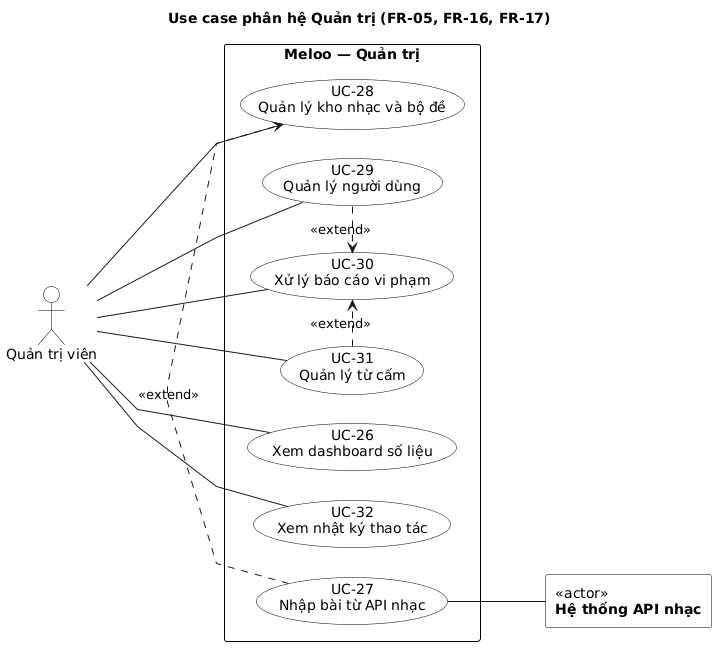
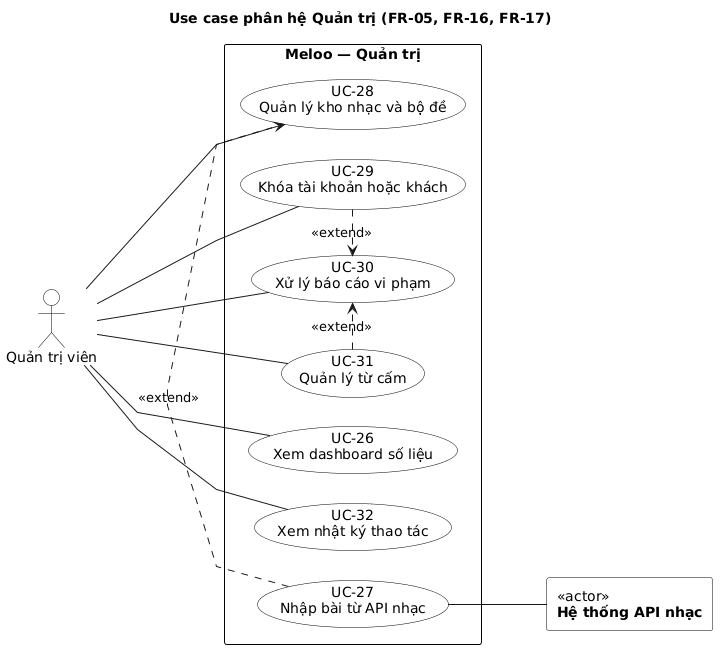
docs(srs): áp dụng quyết định PO 22/10 cho 8 điểm còn mở của use case

diff --git a/docs/srs/usecases/00-tong-quan.md b/docs/srs/usecases/00-tong-quan.md
@@ -3,14 +3,14 @@
 > Ticket: MEL-29 (DOC-02) · Phụ thuộc: MEL-28 (DOC-01, SRS v1 đã chốt ngày 22/10/2026)
 > Đầu vào: `docs/srs/01-srs.md` (FR-01 → FR-19), `docs/srs/02-business-rules.md` (BR-01 → BR-29), `docs/srs/03-glossary.md`.
 > Đầu ra: sơ đồ ở `docs/uml/usecase/` (PlantUML + PNG) và đặc tả chi tiết ở các file cùng thư mục này. QA-04 soạn kịch bản UAT từ các use case này.
-> Trạng thái: **bản nháp chờ Thái duyệt.** Nội dung nghiệp vụ là của Thái; chỗ SRS và BR chưa nói rõ được đánh dấu `[HỎI THÁI]` và gom ở mục 5.
+> Trạng thái: **bản nháp chờ Thái duyệt.** Nội dung nghiệp vụ là của Thái. Ngày 22/10/2026, Thái đã chốt 8 điểm còn mở ở mục 5; đặc tả đã cập nhật theo đó. Các file SRS/BR/thuật ngữ nằm ngoài phạm vi ticket nên chưa sửa; câu cần bổ sung vào BR ghi ở mục "Tài liệu cần cập nhật" của PR.
 
 ## 1. Tác nhân
 
 | Tác nhân | Loại | Vai trò trong mô hình | Nguồn |
 |---|---|---|---|
 | Khách | Chính | Người chơi chưa đăng nhập, dùng biệt danh. Là tác nhân gốc: mọi use case chơi đều mở cho Khách. | SRS 2.1, BR-20 |
-| Người chơi (đã đăng nhập) | Chính | Thừa hưởng mọi use case của Khách; thêm hồ sơ, huy hiệu, xóa tài khoản. | SRS 2.1 |
+| Người chơi (đã đăng nhập) | Chính | Thừa hưởng mọi use case của Khách; thêm xóa tài khoản (hồ sơ và huy hiệu mở cho cả Khách, chỉ xem). | SRS 2.1, BR-21 |
 | Chủ phòng | Chính | Vai trò trong phòng tự tạo (riêng hoặc công khai): chọn bộ nhạc và số vòng, bắt đầu trận, mời người ra. Khách cũng làm được chủ phòng, nên Chủ phòng thừa hưởng từ Khách. Phòng ghép trận không có chủ phòng. | BR-12, BR-13 |
 | Quản trị viên | Chính | Đội vận hành: dashboard, kho nhạc, người dùng, báo cáo vi phạm, từ cấm, nhật ký. | SRS 2.1, BR-28 |
 | Hệ thống API nhạc | Phụ | Nguồn bài hát và đoạn preview (nguồn chính đề xuất ở ADR-003: Deezer). | SRS 2.2, BR-27 |
@@ -40,10 +40,10 @@ Tên dạng động từ + danh từ. Cột "Đặc tả" cho biết use case đ
 | UC-01 | Vào chơi bằng biệt danh | Khách | FR-01 | `01-tai-khoan.md` |
 | UC-02 | Đăng nhập bằng tài khoản mạng xã hội | Khách | FR-02, FR-03, FR-04 | `01-tai-khoan.md` |
 | UC-03 | Gộp dữ liệu khách (include của UC-02) | Khách | FR-02 | Trong UC-02 |
-| UC-04 | Xem hồ sơ và thống kê cá nhân (include UC-25) | Người chơi | FR-04, FR-13 | — |
+| UC-04 | Xem hồ sơ và thống kê cá nhân (include UC-25) | Khách | FR-04, FR-13 | — |
 | UC-05 | Xóa tài khoản | Người chơi | FR-03 | — |
 | UC-06 | Tìm bài hát (ô gợi ý, không cần gõ dấu) | Khách | FR-06 | Trong UC-08 |
-| UC-07 | Chơi luyện tập | Khách | FR-07, FR-13 | `02-choi-don.md` |
+| UC-07 | Chơi luyện tập ("Xếp hạng" bộ chuẩn hoặc "Luyện tập" tự chọn bộ lọc) | Khách | FR-07, FR-13, FR-14 | `02-choi-don.md` |
 | UC-08 | Đoán bài hát trong vòng | Khách | FR-06, FR-07 | `02-choi-don.md` |
 | UC-09 | Mở thêm mức nghe (Nghe thêm, Bỏ qua; extend của UC-08) | Khách | FR-07 | Trong UC-08 |
 | UC-10 | Làm thử thách hằng ngày | Khách | FR-08, FR-13, FR-14 | `02-choi-don.md` |
@@ -61,11 +61,11 @@ Tên dạng động từ + danh từ. Cột "Đặc tả" cho biết use case đ
 | UC-22 | Báo cáo tin nhắn vi phạm (extend của UC-21) | Khách | FR-11 | — |
 | UC-23 | Trò chuyện bằng voice (phòng riêng) | Khách | FR-12 | — |
 | UC-24 | Xem bảng xếp hạng | Khách | FR-14 | `04-xep-hang-quan-tri.md` |
-| UC-25 | Xem huy hiệu | Người chơi | FR-15 | — |
+| UC-25 | Xem huy hiệu | Khách | FR-15 | — |
 | UC-26 | Xem dashboard số liệu | Quản trị viên | FR-16 | — |
 | UC-27 | Nhập bài từ API nhạc (extend của UC-28) | Quản trị viên | FR-05 | Trong UC-28 |
 | UC-28 | Quản lý kho nhạc và bộ đề | Quản trị viên | FR-05, FR-16 | `04-xep-hang-quan-tri.md` |
-| UC-29 | Quản lý người dùng (khóa, mở khóa tài khoản; extend của UC-30) | Quản trị viên | FR-17 | — |
+| UC-29 | Khóa tài khoản hoặc khách (nhập lý do, mở khóa lại được; extend của UC-30) | Quản trị viên | FR-17 | — |
 | UC-30 | Xử lý báo cáo vi phạm | Quản trị viên | FR-17 | `04-xep-hang-quan-tri.md` |
 | UC-31 | Quản lý từ cấm (extend của UC-30) | Quản trị viên | FR-17 | — |
 | UC-32 | Xem nhật ký thao tác | Quản trị viên | FR-17 | — |
@@ -73,6 +73,8 @@ Tên dạng động từ + danh từ. Cột "Đặc tả" cho biết use case đ
 | UC-34 | Cài đặt ứng dụng (PWA) | Khách | FR-19 | — |
 
 Có 34 use case; 14 use case được đặc tả chi tiết: UC-01, 02, 07, 08, 10, 12, 13, 15, 17, 18, 21, 24, 28, 30.
+
+Hồ sơ của khách (quyết định PO 22/10, mục 5 #2): UC-04 mở cho Khách ở chế độ chỉ xem, gồm lịch sử, thống kê và huy hiệu của phiên khách (BR-21 gộp các dữ liệu này vào tài khoản khi đăng nhập), kèm lời nhắc "Đăng nhập để đưa điểm lên bảng xếp hạng". UC-25 là phần include của UC-04 nên cũng mở cho Khách. Xóa tài khoản (UC-05) vẫn chỉ dành cho người đã đăng nhập.
 
 ## 4. Truy vết UC ↔ FR
 
@@ -93,27 +95,29 @@ Bảng này bổ sung cho mục 5 của `01-srs.md` (SRS v1 để lại cho DOC-
 | FR-11 | Must | UC-21, UC-22 |
 | FR-12 | Should | UC-23 |
 | FR-13 | Must | UC-04 (xem), UC-07, UC-10, UC-18 (hệ thống lưu lịch sử khi trận kết thúc) |
-| FR-14 | Must | UC-10, UC-24 |
+| FR-14 | Must | UC-07, UC-10, UC-24 |
 | FR-15 | Should | UC-25 |
 | FR-16 | Must | UC-26, UC-28 |
 | FR-17 | Must | UC-29, UC-30, UC-31, UC-32 |
 | FR-18 | Must | UC-33 |
 | FR-19 | Should | UC-34 |
 
-## 5. Điểm cần Thái xác nhận
+## 5. Điểm đã chốt (22/10)
 
-SRS và BR chưa nói rõ các chỗ sau. Đặc tả đang ghi theo cách suy ra ở cột giữa; Thái xác nhận hoặc sửa, agent không tự đặt quy tắc mới.
+Thái (Product Owner) đã quyết 8 điểm mà SRS và BR chưa nói rõ. Cột cuối là câu bổ sung viết sẵn trong mục "Tài liệu cần cập nhật" của PR #18; các file BR nằm ngoài phạm vi ticket này nên chưa sửa.
 
-| # | Chỗ chưa rõ | Cách suy ra trong đặc tả | Use case |
+| # | Quyết định | Use case đã sửa | BR cần cập nhật |
 |---|---|---|---|
-| 1 | Chơi đơn bằng bộ lọc tự chọn có tính xếp hạng không? BR-23 chỉ nói "chơi đơn bộ chuẩn". | Chỉ bộ chuẩn tính xếp hạng; bộ lọc tự chọn thì không. | UC-07 |
-| 2 | Khách có xem được bảng xếp hạng không? Hồ sơ cá nhân có dành cho khách không? | Khách xem được bảng xếp hạng; hồ sơ, huy hiệu chỉ dành cho người đã đăng nhập. | UC-24, UC-04 |
-| 3 | Chơi đơn bỏ dở giữa chừng (đóng tab) thì có lưu và tính điểm không? | Chưa quy định. | UC-07 |
-| 4 | Thử thách ngày: qua 00:00 giờ Việt Nam lúc đang chơi thì tính vào ngày nào? | Chưa quy định. | UC-10 |
-| 5 | Ghép trận nhanh: người thứ 2 rời đi khi đang đếm ngược 30 giây thì đếm ngược dừng hay chạy tiếp? | Chưa quy định. | UC-15 |
-| 6 | Chat: "lọc từ cấm" là chặn tin hay che từ (\*\*\*)? | Chưa quy định; đặc tả ghi "lọc". | UC-21 |
-| 7 | Xử lý báo cáo vi phạm có mức cảnh cáo trước khi khóa tài khoản không? | Quản trị viên chọn: bỏ qua, khóa tài khoản (UC-29) hoặc thêm từ cấm (UC-31). | UC-30 |
-| 8 | Tin bị báo do khách gửi (không có tài khoản để khóa) thì xử lý thế nào? | Chưa quy định. | UC-30 |
+| 1 | Chỉ chơi đơn bộ chuẩn ("Xếp hạng") được tính xếp hạng. Chơi bằng bộ lọc tự chọn ("Luyện tập") vẫn có điểm, combo, lưu lịch sử, thống kê, tính huy hiệu, nhưng không lên bảng. Màn chọn chế độ tách hai lựa chọn. | UC-07 | BR-23 |
+| 2 | Khách xem được bảng xếp hạng nhưng không có tên trên bảng. Khách có hồ sơ chỉ xem (lịch sử, thống kê, huy hiệu của phiên khách) kèm lời nhắc đăng nhập. Xóa tài khoản chỉ dành cho người đã đăng nhập. | UC-24, UC-04 (tác nhân chính đổi sang Khách), UC-25, mục 1 | BR-20 |
+| 3 | Chơi đơn bỏ dở: server giữ trận 30 phút, mở lại thì chơi tiếp đúng vòng và mức nghe, không đổi bài. Quá 30 phút: ABANDONED, lưu các vòng đã xong, vòng dở 0 điểm, không tính xếp hạng kể cả bộ chuẩn. | UC-07 (luồng 4b) | BR-23 |
+| 4 | Lượt thử thách ngày thuộc về ngày server cấp bài (lúc bắt đầu lượt), kể cả đoán xong sau 00:00. Trần 5 phút mỗi lượt; hết trần mà chưa đúng là "Chưa đoán ra". | UC-10 | BR-25 |
+| 5 | Ghép trận nhanh: số người kết nối dưới 2 khi đang đếm ngược thì dừng; có người thứ 2 thì đếm lại đủ 30 giây. Lúc hết đếm ngược kiểm tra lại, dưới 2 thì không bắt đầu và quay về chờ. | UC-15 (luồng 4b, 5b) | BR-13 |
+| 6 | Tin chứa từ cấm bị chặn cả tin, không che bằng ***; chỉ người gửi thấy cảnh báo; dùng chung cơ chế "tin bị chặn" với tin lộ đáp án. Biệt danh chứa từ cấm bị từ chối ngay khi nhập. | UC-21, UC-01 | BR-16, BR-17 (BR-22 đã có) |
+| 7 | MVP không có mức cảnh cáo. Admin chọn bỏ qua, khóa (UC-29) hoặc thêm từ cấm (UC-31). Khóa phải nhập lý do, ghi vào nhật ký; mở khóa lại được. Cảnh cáo là hướng mở rộng Phase 2. | UC-30, UC-29 (danh mục) | BR-28 |
+| 8 | Tin bị báo do khách gửi: admin khóa theo id khách; id đó không tạo hay vào phòng, không chat được. Giới hạn: khách xóa dữ liệu trình duyệt thì có id mới. | UC-30, UC-29 (tên và mô tả trong danh mục) | BR-28 |
+
+Trong đặc tả, các chỗ BR chưa có câu tương ứng dẫn chiếu "Quyết định PO 22/10 (mục 5, #n)".
 
 ## 6. Câu hỏi bảo vệ
 

diff --git a/docs/srs/usecases/02-choi-don.md b/docs/srs/usecases/02-choi-don.md
@@ -5,22 +5,23 @@
 ### UC-07: Chơi luyện tập
 - Tác nhân chính / phụ: Khách (gồm Người chơi đã đăng nhập) / không có.
 - Tiền điều kiện: Người chơi có phiên (khách hoặc đã đăng nhập). Kho nhạc có đủ bài hợp lệ cho bộ chọn.
-- Hậu điều kiện (thành công / thất bại): Thành công: trận đơn kết thúc, người chơi thấy tổng điểm; trận được lưu vào lịch sử và thống kê. Nếu là trận xếp hạng và người chơi đã đăng nhập thì điểm vào bảng xếp hạng. Thất bại: trận không bắt đầu, người chơi ở màn hình chọn bộ.
+- Hậu điều kiện (thành công / thất bại): Thành công: trận đơn kết thúc, người chơi thấy tổng điểm; trận được lưu vào lịch sử, thống kê và tính huy hiệu. Chỉ trận "Xếp hạng" (bộ chuẩn) của người đã đăng nhập mới vào bảng xếp hạng. Thất bại: trận không bắt đầu (người chơi ở màn hình chọn bộ), hoặc trận bị bỏ dở quá 30 phút và chuyển sang ABANDONED (luồng 4b).
 - Luồng chính:
-  1. Người chơi chọn "Chơi đơn".
-  2. Người chơi chọn bộ chuẩn hoặc đặt bộ lọc (thể loại, quốc gia, ca sĩ, thập niên) và số vòng 5, 10 hoặc 15 (mặc định 10).
+  1. Người chơi chọn "Chơi đơn". Màn chọn chế độ có hai lựa chọn tách biệt: "Xếp hạng" (bộ chuẩn) và "Luyện tập" (tự chọn bộ lọc).
+  2. "Xếp hạng": hệ thống dùng bộ chuẩn. "Luyện tập": người chơi đặt bộ lọc (thể loại, quốc gia, ca sĩ, thập niên). Cả hai chọn số vòng 5, 10 hoặc 15 (mặc định 10).
   3. Hệ thống kiểm tra kho nhạc đủ bài hợp lệ và chọn các bài, không lặp.
-  4. Với mỗi vòng, người chơi đoán bài hát (UC-08, include). Chơi đơn không giới hạn thời gian mỗi vòng nên không có thưởng tốc độ.
+  4. Với mỗi vòng, người chơi đoán bài hát (UC-08, include). Chơi đơn không giới hạn thời gian mỗi vòng nên không có thưởng tốc độ; có điểm và combo ở cả hai lựa chọn.
   5. Sau mỗi vòng, hệ thống hiển thị đáp án, điểm vòng, combo hiện tại, nguồn nhạc và link nghe đầy đủ trên nền tảng gốc.
   6. Hết số vòng, hệ thống hiển thị tổng điểm.
-  7. Hệ thống lưu trận vào lịch sử và thống kê cá nhân.
+  7. Hệ thống lưu trận vào lịch sử và thống kê cá nhân, tính huy hiệu.
 - Luồng phụ và ngoại lệ:
   - 3a. Bộ chọn không đủ bài cho số vòng đã chọn: hệ thống không cho bắt đầu và báo còn thiếu bao nhiêu bài; người chơi đổi bộ lọc hoặc giảm số vòng.
   - 4a. Đoạn nhạc lỗi giữa trận (do server xác nhận): vòng được thay bằng bài khác, không ai bị trừ điểm.
-  - 4b. Người chơi thoát giữa trận: `[HỎI THÁI]` trận có được lưu và tính điểm không (mục 5 của `00-tong-quan.md`, điểm 3).
-  - 7a. Người chơi là khách: điểm không vào bảng xếp hạng. `[HỎI THÁI]` bộ lọc tự chọn có tính xếp hạng không; đang suy ra là chỉ bộ chuẩn tính (điểm 1).
-- Quy tắc nghiệp vụ: BR-01 → BR-09, BR-20, BR-23, BR-27, BR-29.
-- Yêu cầu liên quan: FR-07, FR-13, NFR-04.
+  - 4b. Người chơi bỏ dở (đóng tab, mất mạng): server giữ trận 30 phút. Mở lại trong thời gian đó thì chơi tiếp đúng vòng và đúng mức nghe đã mở, không được đổi sang bài khác. Quá 30 phút thì trận chuyển sang ABANDONED: lưu lịch sử các vòng đã xong, vòng đang dở được 0 điểm, trận không tính vào bảng xếp hạng kể cả khi chơi bộ chuẩn. (Quyết định PO 22/10 (mục 5, #3))
+  - 7a. Lựa chọn "Luyện tập": trận không lên bảng xếp hạng nhưng vẫn có điểm, combo, lịch sử, thống kê và huy hiệu. (Quyết định PO 22/10 (mục 5, #1))
+  - 7b. Người chơi là khách: điểm không vào bảng xếp hạng.
+- Quy tắc nghiệp vụ: BR-01 → BR-09, BR-20, BR-23, BR-27, BR-29. BR-23 cần bổ sung câu cho luyện tập và trận bỏ dở (xem mục "Tài liệu cần cập nhật" của PR).
+- Yêu cầu liên quan: FR-07, FR-13, FR-14, NFR-04.
 
 ### UC-08: Đoán bài hát trong vòng
 - Tác nhân chính / phụ: Khách (người chơi đang ở trong vòng) / Hệ thống API nhạc.
@@ -53,13 +54,14 @@
 - Luồng chính:
   1. Người chơi chọn "Thử thách hằng ngày".
   2. Hệ thống kiểm tra người chơi còn lượt hôm nay.
-  3. Hệ thống mở một vòng với bài chung của ngày hôm nay.
-  4. Người chơi đoán bài hát (UC-08, include) không giới hạn thời gian, không có combo.
+  3. Hệ thống cấp bài chung của ngày hôm nay và bắt đầu lượt (đồng hồ lượt chạy từ lúc này, trần 5 phút).
+  4. Người chơi đoán bài hát (UC-08, include), không có combo.
   5. Hệ thống hiển thị kết quả: mức đoán đúng (hoặc "Chưa đoán ra"), thời gian từ lúc bắt đầu, vị trí trên bảng theo ngày.
   6. Người chơi chọn chia sẻ kết quả (UC-11, extend): hệ thống tạo chuỗi ô màu theo từng mức, nhãn "Đúng ở 10s" (không đoán ra thì "Chưa đoán ra") và link; không lộ tên bài.
 - Luồng phụ và ngoại lệ:
   - 2a. Hết lượt hôm nay: hệ thống hiển thị kết quả đã có và bảng theo ngày, không cho chơi lại. Bài đổi lúc 00:00 giờ Việt Nam.
-  - 4a. Qua 00:00 khi đang chơi: `[HỎI THÁI]` tính vào ngày nào (mục 5 của `00-tong-quan.md`, điểm 4).
+  - 4a. Người chơi đoán xong sau 00:00: lượt vẫn thuộc ngày mà server cấp bài (lúc bắt đầu lượt). (Quyết định PO 22/10 (mục 5, #4))
+  - 4b. Hết trần 5 phút mà chưa đoán đúng: kết quả là "Chưa đoán ra". (Quyết định PO 22/10 (mục 5, #4))
   - 5a. Người chơi là khách: kết quả không vào bảng theo ngày; hệ thống gợi ý đăng nhập để đưa kết quả lên bảng.
-- Quy tắc nghiệp vụ: BR-07, BR-08, BR-20, BR-21, BR-25.
+- Quy tắc nghiệp vụ: BR-07, BR-08, BR-20, BR-21, BR-25. BR-25 cần bổ sung câu về ngày của lượt và trần 5 phút (xem mục "Tài liệu cần cập nhật" của PR).
 - Yêu cầu liên quan: FR-08, FR-13, FR-14.

diff --git a/docs/srs/usecases/04-xep-hang-quan-tri.md b/docs/srs/usecases/04-xep-hang-quan-tri.md
@@ -4,7 +4,7 @@
 
 ### UC-24: Xem bảng xếp hạng
 - Tác nhân chính / phụ: Khách (gồm Người chơi đã đăng nhập) / không có.
-- Tiền điều kiện: Không có. `[HỎI THÁI]` đang suy ra khách xem được bảng xếp hạng (mục 5 của `00-tong-quan.md`, điểm 2).
+- Tiền điều kiện: Không có; khách cũng xem được bảng xếp hạng. (Quyết định PO 22/10 (mục 5, #2))
 - Hậu điều kiện (thành công / thất bại): Thành công: người chơi thấy bảng đã chọn. Thất bại: người chơi thấy thông báo lỗi tải bảng và thử lại được.
 - Luồng chính:
   1. Người chơi mở "Xếp hạng".
@@ -14,7 +14,7 @@
   - 3a. Bảng tuần và toàn thời gian xếp theo tổng điểm các trận xếp hạng; bằng điểm thì ai đạt mức điểm đó trước xếp trên.
   - 3b. Bảng tuần reset lúc 00:00 thứ Hai giờ Việt Nam.
   - 3c. Bảng theo ngày là bảng thử thách ngày: xếp theo mức đoán đúng (2 giây cao nhất), rồi theo thời gian; không đoán ra thì xếp cuối.
-  - 3d. Người chơi là khách: không có vị trí trên bảng; hệ thống gợi ý đăng nhập để điểm được tính. Điểm của khách không vào bảng.
+  - 3d. Người chơi là khách: xem được bảng nhưng không có tên trên bảng; hệ thống nhắc "Đăng nhập để đưa điểm lên bảng xếp hạng". Điểm của khách không vào bảng. (Quyết định PO 22/10 (mục 5, #2))
   - 3e. Bảng chưa có ai: hệ thống hiển thị bảng trống.
   - Ghi chú: chỉ trận xếp hạng (chơi đơn bộ chuẩn, thử thách ngày, ghép trận nhanh) được tính; phòng tự tạo thì không.
 - Quy tắc nghiệp vụ: BR-20, BR-21, BR-23, BR-24, BR-25.
@@ -45,12 +45,12 @@
 - Luồng chính:
   1. Quản trị viên mở danh sách báo cáo chưa xử lý.
   2. Hệ thống hiển thị tin bị báo (nội dung, người gửi, người báo cáo, thời điểm).
-  3. Quản trị viên quyết định: bỏ qua báo cáo, hoặc xử lý.
+  3. Quản trị viên chọn một trong ba: bỏ qua báo cáo, khóa (UC-29) hoặc thêm từ cấm (UC-31). MVP không có mức cảnh cáo; ghi cảnh cáo là hướng mở rộng ở Phase 2. (Quyết định PO 22/10 (mục 5, #7))
   4. Hệ thống đánh dấu báo cáo đã xử lý và ghi nhật ký.
 - Luồng phụ và ngoại lệ:
-  - 3a. Xử lý bằng khóa tài khoản người gửi (UC-29, extend): tài khoản đó không đăng nhập, không tạo hay vào phòng được. `[HỎI THÁI]` có mức cảnh cáo trước khi khóa không (mục 5 của `00-tong-quan.md`, điểm 7).
-  - 3b. Xử lý bằng thêm từ vào danh sách từ cấm (UC-31, extend).
-  - 3c. Người gửi tin bị báo là khách (không có tài khoản để khóa): `[HỎI THÁI]` xử lý thế nào (mục 5 của `00-tong-quan.md`, điểm 8).
+  - 3a. Khóa (UC-29, extend): quản trị viên phải nhập lý do; lý do được ghi vào nhật ký. Quản trị viên mở khóa lại được. (Quyết định PO 22/10 (mục 5, #7))
+  - 3b. Thêm từ vào danh sách từ cấm (UC-31, extend).
+  - 3c. Người gửi tin bị báo là khách: quản trị viên khóa theo id khách. Id đó không tạo hay vào phòng, không chat được. Giới hạn: khách xóa dữ liệu trình duyệt thì có id mới. (Quyết định PO 22/10 (mục 5, #8))
   - 1a. Người dùng không phải Quản trị viên: hệ thống từ chối.
-- Quy tắc nghiệp vụ: BR-17, BR-20, BR-28.
+- Quy tắc nghiệp vụ: BR-17, BR-20, BR-28. BR-28 cần bổ sung câu về lý do khóa và khóa khách (xem mục "Tài liệu cần cập nhật" của PR).
 - Yêu cầu liên quan: FR-17.

diff --git a/docs/srs/usecases/03-nhieu-nguoi.md b/docs/srs/usecases/03-nhieu-nguoi.md
@@ -52,7 +52,8 @@
   5. Hết đếm ngược, hoặc khi đủ số người tối đa của phòng, trận tự bắt đầu (UC-18).
 - Luồng phụ và ngoại lệ:
   - 4a. Chờ 60 giây vẫn chỉ có một mình: hệ thống gợi ý chơi đơn (UC-07) hoặc "Tạo phòng riêng và mời bạn" (người chơi rời hàng chờ, UC-12 cùng bộ lọc, trận không tính xếp hạng). Người chơi vẫn chờ tiếp được.
-  - 4b. Người thứ 2 rời đi khi đang đếm ngược: `[HỎI THÁI]` đếm ngược dừng hay chạy tiếp (mục 5 của `00-tong-quan.md`, điểm 5).
+  - 4b. Đang đếm ngược mà số người còn kết nối giảm xuống dưới 2: đếm ngược dừng. Khi lại có người thứ 2, đếm lại đủ 30 giây. (Quyết định PO 22/10 (mục 5, #5))
+  - 5b. Lúc hết đếm ngược, hệ thống kiểm tra lại số người đang kết nối; nếu dưới 2 thì không bắt đầu trận và quay về trạng thái chờ. (Quyết định PO 22/10 (mục 5, #5))
   - 5a. Hết trận, ai ở lại sảnh thì đếm ngược lại như bước 4 (UC-20).
   - Ghi chú: phòng ghép trận không có chủ phòng, không có nút sẵn sàng, không mời người ra, không hiện trong danh sách phòng công khai và không vào được bằng mã hay link.
   - Ghi chú: khách chơi được nhưng điểm không vào bảng xếp hạng; người đã đăng nhập trong cùng trận vẫn được tính.
@@ -107,13 +108,13 @@
 - Luồng chính:
   1. Người chơi gõ tin nhắn và gửi.
   2. Hệ thống kiểm tra tin dài tối đa 200 ký tự và người gửi không vượt 1 tin mỗi giây.
-  3. Hệ thống lọc từ cấm theo danh sách do quản trị viên quản lý.
+  3. Hệ thống kiểm tra từ cấm theo danh sách do quản trị viên quản lý.
   4. Nếu đang trong vòng, hệ thống kiểm tra tin có chứa tên bài đáp án không (chuẩn hóa như BR-05).
   5. Hệ thống phát tin cho mọi người trong phòng.
 - Luồng phụ và ngoại lệ:
   - 2a. Tin quá dài hoặc gửi quá nhanh: hệ thống từ chối và báo cho người gửi.
-  - 3a. Tin chứa từ cấm: hệ thống lọc. `[HỎI THÁI]` chặn tin hay che từ (mục 5 của `00-tong-quan.md`, điểm 6).
-  - 4a. Tin chứa tên bài đáp án: hệ thống chặn, chỉ người gửi thấy cảnh báo. Hết vòng thì nói tự do.
+  - 3a. Tin chứa từ cấm: hệ thống chặn cả tin, không che bằng ***; chỉ người gửi thấy cảnh báo. Dùng chung cơ chế "tin bị chặn" với tin lộ đáp án (4a). (Quyết định PO 22/10 (mục 5, #6))
+  - 4a. Tin chứa tên bài đáp án: hệ thống chặn (tin bị chặn), chỉ người gửi thấy cảnh báo. Hết vòng thì nói tự do.
   - 5a. Người nhận thấy tin vi phạm: báo cáo tin (UC-22, extend).
 - Quy tắc nghiệp vụ: BR-05, BR-16, BR-17.
 - Yêu cầu liên quan: FR-11, NFR-07.

diff --git a/docs/srs/usecases/01-tai-khoan.md b/docs/srs/usecases/01-tai-khoan.md
@@ -15,7 +15,8 @@
   6. Khách chọn một chế độ chơi (UC-07, UC-10, UC-13, UC-15…).
 - Luồng phụ và ngoại lệ:
   - 2a. Khách đã có phiên khách từ lần trước và dữ liệu chưa bị xóa (khách không hoạt động 30 ngày thì bị xóa): hệ thống dùng lại phiên và biệt danh cũ, bỏ qua bước 3–5.
-  - 4a. Biệt danh ngắn hơn 3 hoặc dài hơn 20 ký tự, hoặc chứa từ cấm: hệ thống báo lỗi, quay lại bước 3.
+  - 4a. Biệt danh ngắn hơn 3 hoặc dài hơn 20 ký tự: hệ thống báo lỗi, quay lại bước 3.
+  - 4b. Biệt danh chứa từ cấm: hệ thống từ chối ngay khi nhập (BR-22; Quyết định PO 22/10 (mục 5, #6)), quay lại bước 3.
   - 6a. Khách chọn đăng nhập thay vì chơi bằng biệt danh: chuyển sang UC-02.
 - Quy tắc nghiệp vụ: BR-20, BR-22.
 - Yêu cầu liên quan: FR-01, NFR-10 (từ lúc mở web đến khi nghe đoạn nhạc đầu tiên ≤ 30 giây, không cần đăng ký).
